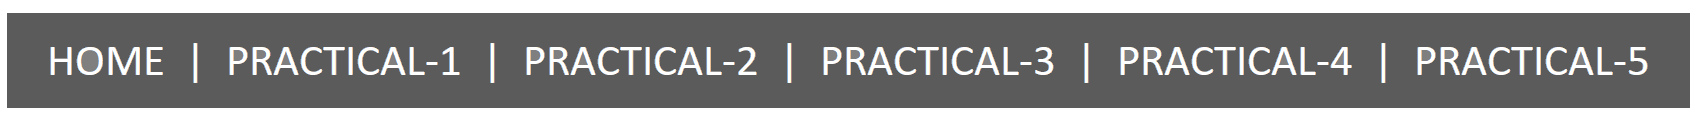
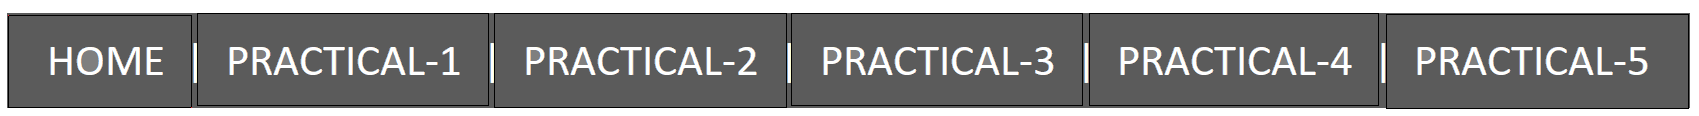
change

Changed region(s): [[0.0, 0.1034, 0.9982, 0.1552], [0.0, 0.9052, 0.8111, 0.931], [0.8111, 0.931, 0.9982, 0.9569]]

diff --git a/Practical/Practical_5.html b/Practical/Practical_5.html
@@ -25,7 +25,7 @@
 <body style="background-color: lightgray;">
     <img id="class1" src="..\image\P5_Head.PNG" alt="Main Heading" usemap="#map1">
     <map  name="map1">
-    <area shape="rect" coords="10,18,197,108" href="https://maheshwarinaman.github.io/V_Semester_FullStack/" alt="home">
+    <area shape="rect" coords="8,15,191,108" href="https://maheshwarinaman.github.io/V_Semester_FullStack/" alt="home">
     <map name="map1">
     <area shape="rect" coords="196,18,488,9102"
         href="Practical_1.html" alt="Practical-1">
@@ -39,12 +39,12 @@
         href="#" alt="Practical-5">
     </map>
     <h2 style="text-align: center; color:white;">Introduction to Front-End Technologies.</h2>
-    <img id="class2" src="..\image\Practical-5.jpg" alt="Main image" name="#map2">
+    <img id="class2" src="..\image\Practical-5.jpg" alt="Main image" usemap="#map2">
     <map name="map2">
-        <area shape="rect" coords="19,11,171,165" href="htnl.html" alt="HTML">
-        <area shape="circle" coords="291,94" href="css.html" alt="CSS">
-        <area shape="rect" coords="26,198,171,335" href="javascript.html" alt="JAVASCRIPT">
-        <area shape="poly" coords="232,224,288,200,346,224,334,301,288,327" href="boot.html" alt="BOOTSTRAP">
+        <area shape="rect" coords="21,12,168,164" href="html.html" alt="HTML">
+        <area shape="circle" coords="298,97,96" href="css.html" alt="CSS">
+        <area shape="rect" coords="26,200,168,339" href="javascript.html" alt="JAVASCRIPT">
+        <area shape="poly" coords="233,225,287,206,344,227,287,328,240,301" href="boot.html" alt="BOOTSTRAP">
 
     </map>
     <h3 style="color:red; text-align: center;">Click on any part of logo to know more about these technologies</h3>
